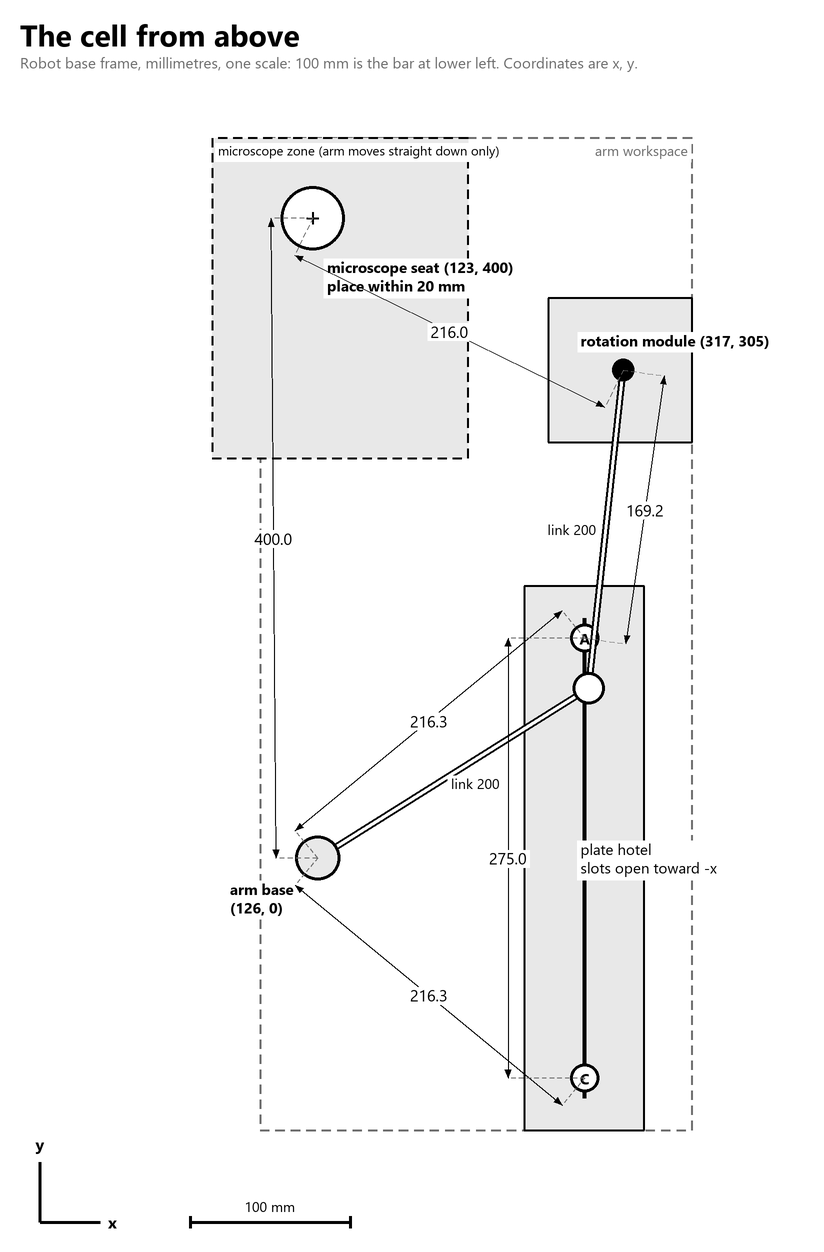
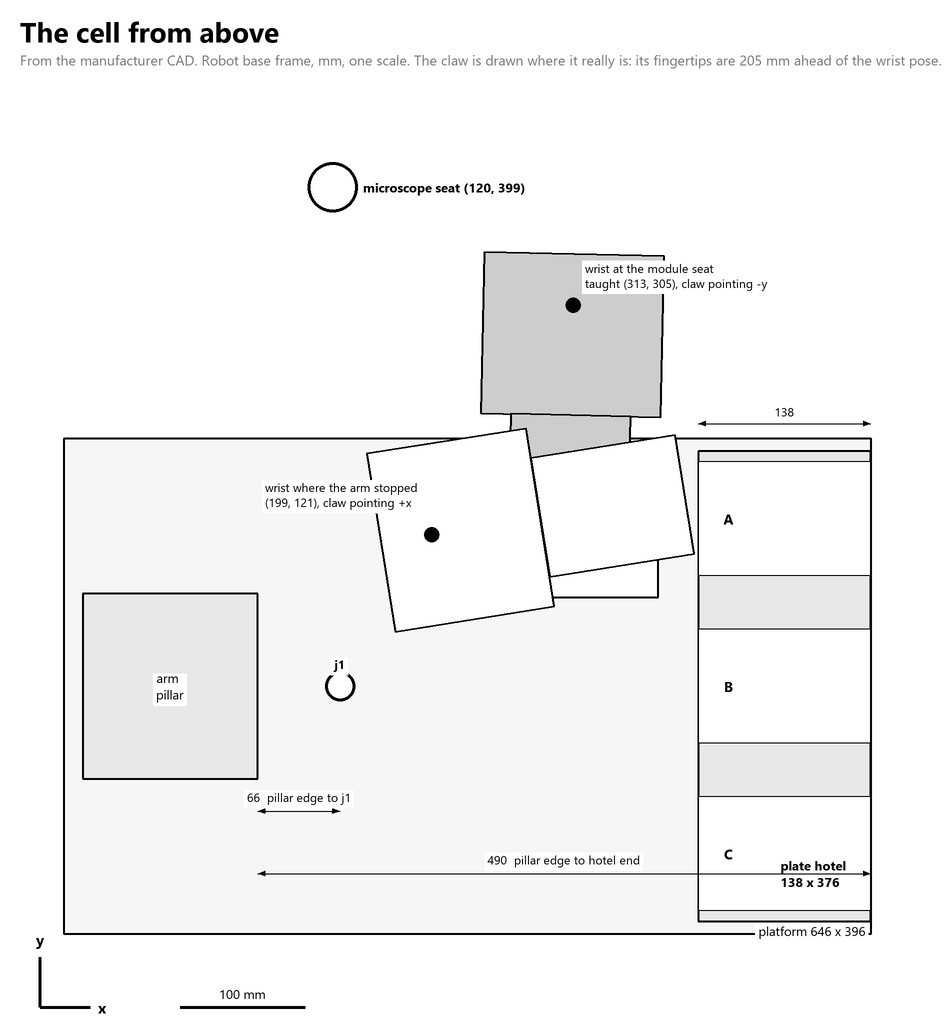
Placement diagram from the CAD: platform, pillar, hotel, module, and the claw where it really is (fingertips 205 mm ahead of the wrist), with the pose where the arm stopped

diff --git a/tools/placement_diagram.py b/tools/placement_diagram.py
@@ -1,34 +1,34 @@
-"""docs/placement.png: the cell from above in the robot base frame, black and white, one scale (mm), every distance on
-the figure. Positions and boxes come from layout.json, so the figure follows the file.
+"""docs/placement.png: the cell from above, from the manufacturer CAD (layout.json `volumes`, hardware.json `cad`).
+Black and white, one scale, robot base frame in mm (x right, y up). The claw is drawn where it really is: its
+fingers are 205 mm ahead of the wrist pose the controller reports.
     python tools/placement_diagram.py
 """
 import json
 import math
 import os
-import sys
 
 from PIL import Image, ImageDraw, ImageFont
 
 HERE = os.path.dirname(os.path.dirname(os.path.abspath(__file__)))
-sys.path.insert(0, HERE)
-from routes_opt import fk  # noqa: E402
+LAY = json.load(open(os.path.join(HERE, "layout.json"), encoding="utf-8"))
+CAD = json.load(open(os.path.join(HERE, "hardware.json"), encoding="utf-8"))["cad"]
+CLAW = LAY["volumes"]["claw"]
+PILLAR = LAY["volumes"]["obstacles"]["pillar"]
+HOTEL_X, HOTEL_Y = CAD["hotel"]["x_r"], CAD["hotel"]["side_panels_y_r"]
+COLS, COL_W = CAD["hotel"]["columns_y_r"], CAD["hotel"]["column_width_mm"]
+PLAT_X, PLAT_Y = CAD["platform"]["x_r"], CAD["platform"]["y_r"]
+MOD_AXIS, MOD_X, MOD_Y = CAD["rotation_module"]["axis_r"], CAD["rotation_module"]["plate_seat_x_r"], CAD["rotation_module"]["plate_seat_y_r"]
+J1 = (126.0, 0.0)
+SEAT = tuple(LAY["fixtures"]["microscope"]["pose"][:2])
+MODULE_WRIST = LAY["fixtures"]["polar"]["pose_at_0"]["pose"]
+CRASH = (199.3, 121.0, 9.0)                       # wrist x, y, yaw where the arm stopped on 2026-10-27
 
-L = json.load(open(os.path.join(HERE, "layout.json"), encoding="utf-8"))
-F, R = L["fixtures"], L["regions"]
-BASE, SEAT, MODULE = (126.0, 0.0), (123.0, 400.0), (317.0, 305.0)    # the nominal placement; the README distance table uses the same
-HOTEL_X = 293.0                                    # slot centre x; columns A and C at y = +-137.5
-A, C = (HOTEL_X, 137.5), (HOTEL_X, -137.5)
-ELBOW = fk.elbow_xy(L["trajectories"]["microscope_to_polar"]["joints"][-1])     # the elbow on the taught approach to the module
-TOL = 20
-WB = L["workspace_box"]
-
-S, SS = 1.6, 2                                     # px per mm, supersampling
-X0, X1, Y0, Y1 = -60, 430, -215, 480               # world window
-TOP = 90
-W, H = int((X1 - X0) * S) + 40, int((Y1 - Y0) * S) + TOP + 50
+S, SS = 1.25, 2
+X0, X1, Y0, Y1 = -130, 600, -230, 480
+TOP, FOOT = 86, 60
+W, H = int((X1 - X0) * S) + 40, int((Y1 - Y0) * S) + TOP + FOOT
 FONT, BOLD = "C:/Windows/Fonts/segoeui.ttf", "C:/Windows/Fonts/segoeuib.ttf"
-BLACK, GREY, LIGHT = (0, 0, 0), (110, 110, 110), (232, 232, 232)
-
+BLACK, GREY, LIGHT = (0, 0, 0), (120, 120, 120), (232, 232, 232)
 img = Image.new("RGB", (W * SS, H * SS), "white")
 d = ImageDraw.Draw(img)
 
@@ -41,129 +41,98 @@ def P(p):
     return ((20 + (p[0] - X0) * S) * SS, (TOP + (Y1 - p[1]) * S) * SS)
 
 
-def label(xy, s, size=16, bold=False, anchor="mm", color=BLACK):
-    f = font(size, bold)
-    x, y = xy[0] * SS, xy[1] * SS
-    b = d.textbbox((x, y), s, font=f, anchor=anchor)
+def label(p, s, size=13, bold=False, anchor="mm", dx=0, dy=0):
+    x, y = P(p)[0] + dx * SS, P(p)[1] + dy * SS
+    b = d.textbbox((x, y), s, font=font(size, bold), anchor=anchor)
     pad = 3 * SS
     d.rectangle([b[0] - pad, b[1] - pad, b[2] + pad, b[3] + pad], fill="white")
-    d.text((x, y), s, fill=color, font=f, anchor=anchor)
+    d.text((x, y), s, fill=BLACK, font=font(size, bold), anchor=anchor)
 
 
-def line(a, b, w=2, color=BLACK):
-    d.line([P(a), P(b)], fill=color, width=w * SS)
-
-
-def dashed(a, b, w=2, color=GREY, dash=9, gap=6):
-    (x0, y0), (x1, y1) = P(a), P(b)
-    n = max(1, int(math.hypot(x1 - x0, y1 - y0) / ((dash + gap) * SS)))
-    for i in range(n):
-        t0, t1 = i / n, (i + dash / (dash + gap)) / n
-        d.line([(x0 + (x1 - x0) * t0, y0 + (y1 - y0) * t0), (x0 + (x1 - x0) * t1, y0 + (y1 - y0) * t1)], fill=color, width=w * SS)
-
-
-def rect(x, y, fill=None, dash=False, w=2, color=BLACK):
-    pts = [(x[0], y[0]), (x[1], y[0]), (x[1], y[1]), (x[0], y[1]), (x[0], y[0])]
+def poly(pts, fill=None, w=2):
+    xy = [P(p) for p in pts]
     if fill:
-        d.polygon([P(p) for p in pts], fill=fill)
-    for a, b in zip(pts, pts[1:]):
-        (dashed(a, b, w, color) if dash else line(a, b, w, color))
+        d.polygon(xy, fill=fill)
+    d.line(xy + [xy[0]], fill=BLACK, width=w * SS)
 
 
-def disc(c, r_mm, fill="white", w=3):
-    (cx, cy), r = P(c), r_mm * S * SS
-    d.ellipse([cx - r, cy - r, cx + r, cy + r], fill=fill, outline=BLACK, width=w * SS)
+def rect(x, y, **kw):
+    poly([(x[0], y[0]), (x[1], y[0]), (x[1], y[1]), (x[0], y[1])], **kw)
 
 
-def arrow(p, q, size=9):
+def claw(wx, wy, yaw, fill):
+    c, s = math.cos(math.radians(yaw)), math.sin(math.radians(yaw))
+    for part in ("body", "fingers"):
+        (x0, x1), (y0, y1) = CLAW[part]["x"], CLAW[part]["y"]
+        poly([(wx + u * c - v * s, wy + u * s + v * c) for u, v in ((x0, y0), (x1, y0), (x1, y1), (x0, y1))], fill=fill)
+
+
+def disc(c, r, fill="white", w=3):
+    (cx, cy), rr = P(c), r * S * SS
+    d.ellipse([cx - rr, cy - rr, cx + rr, cy + rr], fill=fill, outline=BLACK, width=w * SS)
+
+
+def arrow(p, q, size=8):
     (x0, y0), (x1, y1) = P(p), P(q)
     a = math.atan2(y1 - y0, x1 - x0)
-    s = size * SS
-    d.polygon([(x1, y1), (x1 - s * math.cos(a - 0.35), y1 - s * math.sin(a - 0.35)),
-               (x1 - s * math.cos(a + 0.35), y1 - s * math.sin(a + 0.35))], fill=BLACK)
+    k = size * SS
+    d.polygon([(x1, y1), (x1 - k * math.cos(a - 0.35), y1 - k * math.sin(a - 0.35)),
+               (x1 - k * math.cos(a + 0.35), y1 - k * math.sin(a + 0.35))], fill=BLACK)
 
 
-def dimension(p, q, text, off=0.0, side=1, size=16):
-    """A measure: a line offset sideways from p-q by `off` mm, arrows at both ends, the value on it."""
-    ux, uy = q[0] - p[0], q[1] - p[1]
-    n = math.hypot(ux, uy)
-    nx, ny = -uy / n * side, ux / n * side
-    a, b = (p[0] + nx * off, p[1] + ny * off), (q[0] + nx * off, q[1] + ny * off)
-    if off:
-        dashed(p, a, 1, GREY, 4, 3)
-        dashed(q, b, 1, GREY, 4, 3)
-    line(a, b, 1)
-    arrow(b, a)
+def dim(a, b, text, dy=0):
+    d.line([P(a), P(b)], fill=BLACK, width=SS)
     arrow(a, b)
-    m = P(((a[0] + b[0]) / 2, (a[1] + b[1]) / 2))
-    label((m[0] / SS, m[1] / SS), text, size)
+    arrow(b, a)
+    label(((a[0] + b[0]) / 2, (a[1] + b[1]) / 2), text, 12, dy=dy)
 
 
-d.text((20 * SS, 14 * SS), "The cell from above", fill=BLACK, font=font(30, True))
-d.text((20 * SS, 52 * SS), "Robot base frame, millimetres, one scale: 100 mm is the bar at lower left. Coordinates are x, y.",
-       fill=GREY, font=font(15))
+d.text((20 * SS, 12 * SS), "The cell from above", fill=BLACK, font=font(28, True))
+d.text((20 * SS, 50 * SS), "From the manufacturer CAD. Robot base frame, mm, one scale. The claw is drawn where it really is: "
+       "its fingertips are 205 mm ahead of the wrist pose.", fill=GREY, font=font(14))
 
-# workspace and zones
-rect(WB["x"], WB["y"], dash=True, w=2, color=GREY)
-label((P((WB["x"][1], WB["y"][1]))[0] / SS - 4, P((WB["x"][1], WB["y"][1]))[1] / SS + 12), "arm workspace", 14, anchor="rm", color=GREY)
-mz = R["microscope"]["box"]
-rect(mz["x"], mz["y"], fill=LIGHT, dash=True)
-label((P((mz["x"][0], mz["y"][1]))[0] / SS + 6, P((mz["x"][0], mz["y"][1]))[1] / SS + 12), "microscope zone (arm moves straight down only)", 13, anchor="lm")
-pz = R["polar"]["box"]
-rect(pz["x"], pz["y"], fill=LIGHT)
-hz = R["hotel"]["box"]
-rect(hz["x"], hz["y"], fill=LIGHT)
+rect(PLAT_X, PLAT_Y, fill=(246, 246, 246))
+label((PLAT_X[1], PLAT_Y[0]), f"platform {PLAT_X[1] - PLAT_X[0]:.0f} x {PLAT_Y[1] - PLAT_Y[0]:.0f}", 13, anchor="ra", dx=-6, dy=-12)
+rect(PILLAR["x"], PILLAR["y"], fill=LIGHT)
+label(((PILLAR["x"][0] + PILLAR["x"][1]) / 2, 0), "arm\npillar", 13)
+disc(J1, 12, "white")
+label(J1, "j1", 12, True, dy=-22)
 
-# hotel columns
-line((HOTEL_X, -150), (HOTEL_X, 150), 4)
-for name, c in (("A", A), ("C", C)):
-    disc(c, 9, "white", 3)
-    d.text(P(c), name, fill=BLACK, font=font(15, True), anchor="mm")
-label((P((HOTEL_X + 40, 0))[0] / SS, P((HOTEL_X + 40, 0))[1] / SS), "plate hotel\nslots open toward -x", 15, bold=False)
+rect(HOTEL_X, HOTEL_Y, fill=LIGHT)
+for name, y in COLS.items():
+    rect(HOTEL_X, (y - COL_W / 2, y + COL_W / 2), fill="white", w=1)
+    label((HOTEL_X[0] + 24, y), name, 14, True)
+label((HOTEL_X[1] - 46, -150), f"plate hotel\n{CAD['hotel']['depth_mm']:.0f} x {HOTEL_Y[1] * 2:.0f}", 13, True)
 
-# the arm reaching the module: base, link 1, elbow, link 2
-line(BASE, ELBOW, 7)
-line(ELBOW, MODULE, 7)
-line(BASE, ELBOW, 3, "white")
-line(ELBOW, MODULE, 3, "white")
-disc(BASE, 14, LIGHT)
-disc(ELBOW, 10, "white")
-label((P(BASE)[0] / SS - 24, P(BASE)[1] / SS + 40), "arm base\n(126, 0)", 15, True, "rm")
-mid1 = ((BASE[0] + ELBOW[0]) / 2, (BASE[1] + ELBOW[1]) / 2)
-mid2 = ((ELBOW[0] + MODULE[0]) / 2, (ELBOW[1] + MODULE[1]) / 2)
-label((P(mid1)[0] / SS + 22, P(mid1)[1] / SS + 10), "link 200", 14)
-label((P(mid2)[0] / SS - 34, P(mid2)[1] / SS), "link 200", 14)
+rect(MOD_X, MOD_Y, fill="white")
+disc(MOD_AXIS, 6, "black")
+label(MOD_AXIS, f"rotation module\naxis ({MOD_AXIS[0]:.0f}, {MOD_AXIS[1]:.0f})", 13, True, anchor="rm", dx=-14)
 
-# module and microscope seat
-disc(MODULE, 7, "black")
-label((P(MODULE)[0] / SS + 52, P(MODULE)[1] / SS - 30), f"rotation module ({MODULE[0]:.0f}, {MODULE[1]:.0f})", 15, True, "mm")
-disc(SEAT, TOL, "white", 3)
-d.line([(P(SEAT)[0] - 6 * SS, P(SEAT)[1]), (P(SEAT)[0] + 6 * SS, P(SEAT)[1])], fill=BLACK, width=2 * SS)
-d.line([(P(SEAT)[0], P(SEAT)[1] - 6 * SS), (P(SEAT)[0], P(SEAT)[1] + 6 * SS)], fill=BLACK, width=2 * SS)
-label((P(SEAT)[0] / SS + 14, P(SEAT)[1] / SS + 58), f"microscope seat ({SEAT[0]:.0f}, {SEAT[1]:.0f})\nplace within {TOL} mm", 15, True, "lm")
+claw(MODULE_WRIST[0], MODULE_WRIST[1], MODULE_WRIST[5], (205, 205, 205))
+disc(MODULE_WRIST[:2], 6, "black")
+label(MODULE_WRIST[:2], "wrist at the module seat\ntaught (313, 305), claw pointing -y", 12, anchor="lm", dx=12, dy=-30)
+claw(CRASH[0], CRASH[1], CRASH[2], "white")
+disc(CRASH[:2], 6, "black")
+label(CRASH[:2], "wrist where the arm stopped\n(199, 121), claw pointing +x", 12, anchor="rm", dx=-14, dy=-40)
 
-# measures
-dist = lambda a, b: math.hypot(a[0] - b[0], a[1] - b[1])
-dimension(BASE, SEAT, f"{dist(BASE, SEAT):.1f}", off=26, side=1)
-dimension(SEAT, MODULE, f"{dist(SEAT, MODULE):.1f}", off=26, side=-1)
-dimension(BASE, A, f"{dist(BASE, A):.1f}", off=22, side=1)
-dimension(BASE, C, f"{dist(BASE, C):.1f}", off=22, side=-1)
-dimension(MODULE, A, f"{dist(MODULE, A):.1f}", off=26, side=1)
-dimension(A, C, f"{dist(A, C):.1f}", off=48, side=-1)
+disc(SEAT, 20)
+label(SEAT, f"microscope seat ({SEAT[0]:.0f}, {SEAT[1]:.0f})", 13, True, anchor="lm", dx=30)
 
-# axes and scale bar
-ox, oy = 40, H - 30
-line_px = lambda a, b: d.line([(a[0] * SS, a[1] * SS), (b[0] * SS, b[1] * SS)], fill=BLACK, width=3 * SS)
-line_px((ox, oy), (ox + 60, oy))
-line_px((ox, oy), (ox, oy - 60))
-d.text(((ox + 68) * SS, oy * SS), "x", fill=BLACK, font=font(16, True), anchor="lm")
-d.text((ox * SS, (oy - 68) * SS), "y", fill=BLACK, font=font(16, True), anchor="mb")
-bx = ox + 150
-line_px((bx, oy), (bx + 100 * S, oy))
-line_px((bx, oy - 6), (bx, oy + 6))
-line_px((bx + 100 * S, oy - 6), (bx + 100 * S, oy + 6))
-d.text(((bx + 50 * S) * SS, (oy - 10) * SS), "100 mm", fill=BLACK, font=font(14), anchor="mb")
+dim((PILLAR["x"][1], -100), (J1[0], -100), "66  pillar edge to j1", dy=-14)
+dim((PILLAR["x"][1], -150), (HOTEL_X[1], -150), "490  pillar edge to hotel end", dy=-14)
+dim((HOTEL_X[0], 210), (HOTEL_X[1], 210), "138", dy=-12)
+
+ox, oy = 40, H - 26
+for a, b in (((ox, oy), (ox + 50, oy)), ((ox, oy), (ox, oy - 50))):
+    d.line([(a[0] * SS, a[1] * SS), (b[0] * SS, b[1] * SS)], fill=BLACK, width=3 * SS)
+d.text(((ox + 58) * SS, oy * SS), "x", fill=BLACK, font=font(15, True), anchor="lm")
+d.text((ox * SS, (oy - 58) * SS), "y", fill=BLACK, font=font(15, True), anchor="mb")
+bx = ox + 140
+d.line([(bx * SS, oy * SS), ((bx + 100 * S) * SS, oy * SS)], fill=BLACK, width=3 * SS)
+d.text(((bx + 50 * S) * SS, (oy - 8) * SS), "100 mm", fill=BLACK, font=font(13), anchor="mb")
 
 out = os.path.join(HERE, "docs", "placement.png")
-img.resize((W, H), Image.LANCZOS).save(out)
-print(out, W, H, "elbow", [round(v, 1) for v in ELBOW])
+tmp = out + ".tmp.png"
+img.resize((W, H), Image.LANCZOS).save(tmp)
+os.replace(tmp, out)
+print(out, W, H)
